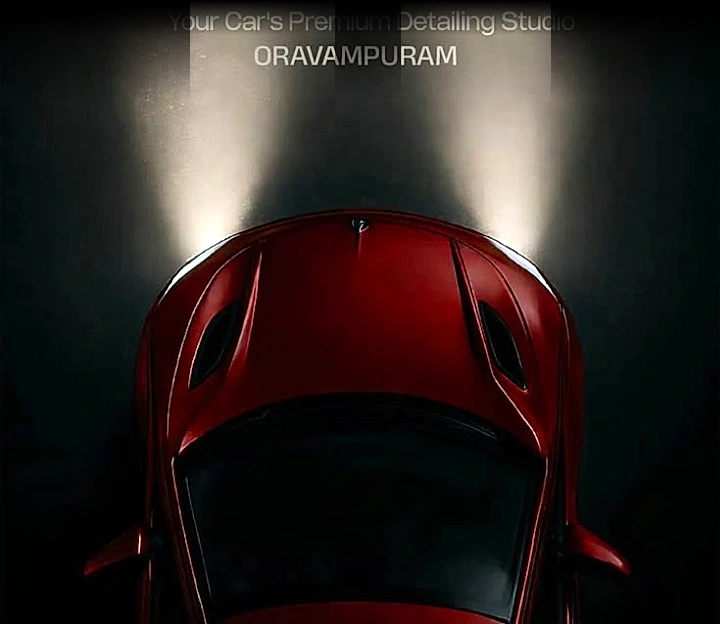
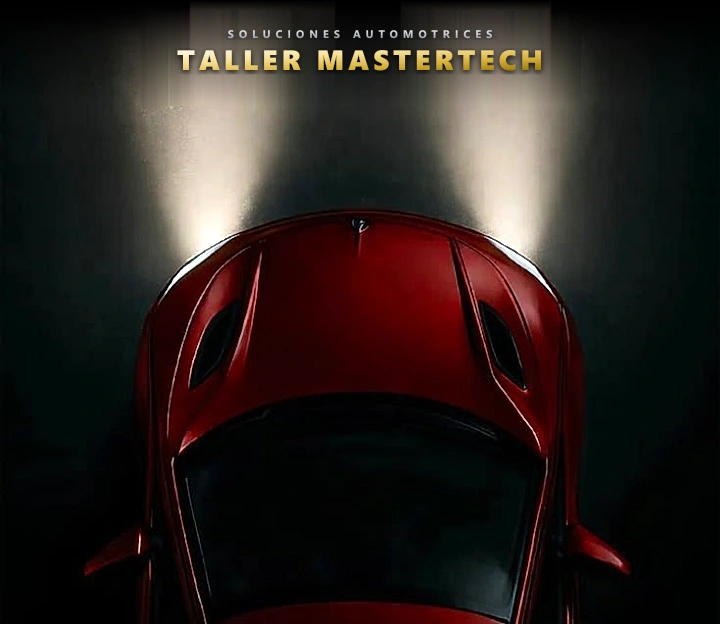
Respaldo sincronizado: Supabase, Base Local y GitHub

Changed region(s): [[0.2444, 0.0, 0.7944, 0.1522]]

diff --git a/src/components/JornadasComingSoonHero.tsx b/src/components/JornadasComingSoonHero.tsx
@@ -200,9 +200,9 @@ export default function JornadasComingSoonHero({
           {/* Halo ambiental rojo tenue detrás del deportivo */}
           <div className="absolute w-72 h-72 sm:w-80 sm:h-80 bg-red-600/15 rounded-full blur-[80px] pointer-events-none" />
 
-          {/* Imagen del vehículo centrada, nítida y sin marcas de agua */}
+          {/* Imagen del vehículo centrada, nítida y personalizada con marca MasterTech */}
           <img
-            src="/assets/coming_soon_car_centered_clean.webp"
+            src="/assets/coming_soon_car_mastertech.webp"
             alt="Próxima Jornada MasterTech"
             className="w-full h-full max-h-[440px] object-contain object-center pointer-events-none select-none transition-transform duration-700 hover:scale-105 drop-shadow-[0_15px_35px_rgba(0,0,0,0.8)]"
           />
